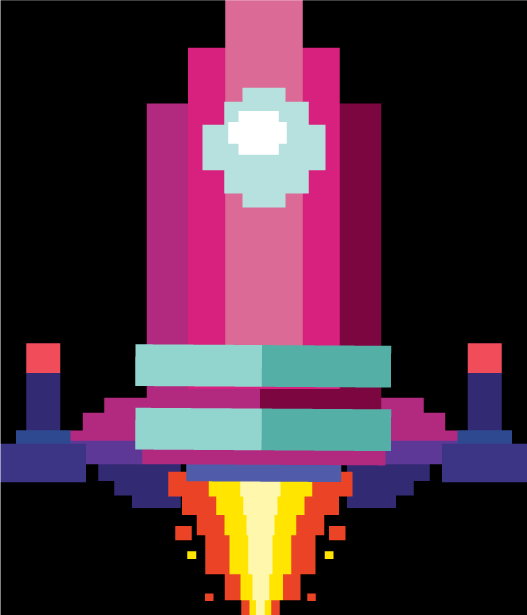
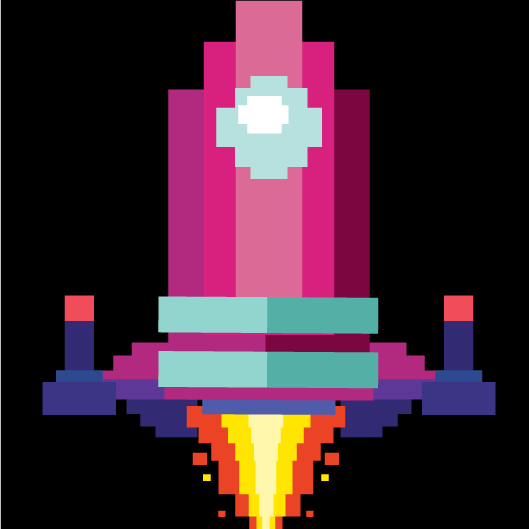
cambie paleta. audio como iconos pixelart. y +

diff --git a/css/index.css b/css/index.css
@@ -1,3 +1,10 @@
+/* HEX
+--white: #FFFFFFff;
+--tiffany-blue: #93D4CEff;
+--midnight-blue: #342975ff;
+--mexican-pink: #D8217Eff;
+--canary: #FFE500ff; */
+
 @import url('https://fonts.googleapis.com/css2?family=Press+Start+2P&display=swap');
 
 body {
@@ -15,7 +22,7 @@ body {
 }
 
 #container {
-  height: 700px;
+  height: 670px;
   width: 900px;
   position: relative;
   background-color: transparent;
@@ -44,7 +51,7 @@ body {
 
   font-family: 'Press Start 2P', cursive;
   font-size: 20px;
-  color: #faf21b;
+  color: #FFE500ff;
 }
 
 #invader-info p {
@@ -56,14 +63,14 @@ body {
 #splash-instruction {
   position: absolute;
   line-height: 1cm;
-  bottom: 120px;
-  left: 215px;
-  width: 500px;
+  bottom: 145px;
+  left: 210px;
+  width: 550px;
   height: 40px;
 
   text-align: center;
   font-family: 'Press Start 2P', cursive;
-  font-size: 20px;
+  font-size: 18px;
   color: #fff;
   letter-spacing: 2px;
 }
@@ -110,13 +117,13 @@ body {
 
 #menu-button:hover {
   cursor: pointer;
-  color: #faf21b;
+  color: #FFE500ff;
 }
 
 #menu-container {
   position: absolute;
   bottom: 100px;
-  left: 300px;
+  left: 310px;
 
   display: flex;
   flex-direction: column;
@@ -125,19 +132,20 @@ body {
 
   background: rgb(2,0,36);
   background: linear-gradient(90deg, rgba(2,0,36,1) 0%, rgba(5,5,91,1) 85%, rgba(9,9,121,1) 100%);
-  height: 400px;
+  height: 405px;
   width: 300px;
 
   font-family: 'Press Start 2P', cursive;
   font-size: 20px;
-  color: #56bdec;
+  color: #DB6A96ff;
 
   border-radius: 10px;
 }
 
 .header {
-  color: #faf21b;
+  color: #FFE500ff;
   text-align: center;
+  font-size: 35px;
 }
 
 .button:hover {
@@ -146,7 +154,7 @@ body {
 
 #about-button:hover {
   cursor: pointer;
-  color: #faf21b;
+  color: #FFE500ff;
 }
 
 #about {
@@ -154,23 +162,23 @@ body {
 
   position: absolute;
   bottom: 100px;
-  left: 300px;
+  left: 295px;
 
-  background-color: grey;
-  height: 400px;
+  background: linear-gradient(90deg, rgba(2,0,36,1) 0%, rgba(5,5,91,1) 85%, rgba(9,9,121,1) 100%);
+  height: 405px;
   width: 300px;
 
-  font-family: 'Bungee Inline', cursive;
+  font-family: 'Press Start 2P', cursive;
   letter-spacing: 1px;
   line-height: 25px;
-  color: #000;
+  color: #fff;
 
   text-align: center;
   border-radius: 10px;
 }
 
 #port-link {
-  color: #faf21b;
+  color: #FFE500ff;
   text-decoration: none;
   transition: color .15s ease-in;
 }
@@ -181,19 +189,19 @@ body {
 }
 
 #close-about {
-  margin-left: 200px;
+  margin-left: 150px;
   margin-top: 5px;
   color: #fff;
 }
 
 #close-about:hover {
   cursor: pointer;
-  color: #faf21b;
+  color: #FFE500ff;
 }
 
 #instructions-button:hover {
   cursor: pointer;
-  color: #faf21b;
+  color: #FFE500ff;
 }
 
 #instructions {
@@ -201,53 +209,54 @@ body {
 
   position: absolute;
   bottom: 100px;
-  left: 300px;
+  left: 295px;
 
-  background-color: grey;
-  height: 400px;
-  width: 300px;
+  background: linear-gradient(90deg, rgba(2,0,36,1) 0%, rgba(5,5,91,1) 85%, rgba(9,9,121,1) 100%);
+  height: 405px;
+  width: 305px;
 
-  font-family: 'Bungee Inline', cursive;
+  font-family: 'Press Start 2P', cursive;
+  font-size: 14px;
   letter-spacing: 1px;
   line-height: 25px;
-  color: #000;
+  color: #fff;
 
   text-align: center;
   border-radius: 10px;
 }
 
 #close-instructions {
-  margin-left: 200px;
+  margin-left: 150px;
   margin-top: 5px;
   color: #fff;
 }
 
 #close-instructions:hover {
   cursor: pointer;
-  color: #faf21b;
+  color: #FFE500ff;
 }
 
 #close-instructions:hover {
   cursor: pointer;
-  color: #faf21b;
+  color: #FFE500ff;
 }
 
 #resume-button:hover {
   cursor: pointer;
-  color: #faf21b;
+  color: #FFE500ff;
 }
 
 #restart-button:hover {
   cursor: pointer;
-  color: #faf21b;
+  color: #FFE500ff;
 }
 
 #main-logo {
   position: absolute;
-  top: 10px;
-  left: 215px;
+  top: 40px;
+  left: 220px;
 
-  height: 210px;
+  height: 200px;
   width: 500px;
 }
 
@@ -288,7 +297,7 @@ body {
 
 #play-game {
   position: absolute;
-  bottom: -150px;
+  bottom: 0px;
   left: 307px;
 
   z-index: 5;
@@ -309,7 +318,9 @@ body {
 #play-game:hover {
   cursor: pointer;
   transition: all .3s ease-in;
-  background: #37ed1f;
+  background: #93D4CEff;
+  border: 2px solid #93D4CEff;
+  color: #000;
 }
 
 #play-game p {

diff --git a/index.html b/index.html
@@ -82,12 +82,12 @@
 
       <img
         id="audio"
-        src="./images/audio.jpg" />
+        src="./images/audio.png" />
 
       <img
         class='hide'
         id='mute'
-        src='./images/mute.jpg' />
+        src='./images/mute.png' />
 
       <img
         class='hide'
@@ -96,7 +96,7 @@
 
       <img
         id="main-logo"
-        src="./images/main-logo.jpg" />
+        src="./images/si.png" />
 
       <!-- <img
         id="play-game"
@@ -105,12 +105,13 @@
       <img
         class="hide"
         id="defender"
-        src="./images/defender.jpg" />
+        src="./images/defender.png" 
+        style="height: 1000px; width: 1000px;"/>
 
       <img
         class='hide'
         id='defender-death'
-        src='./images/defender-death.jpg' />
+        src='./images/defender-death.png' />
 
       <img
         class=""

diff --git a/bundle.js b/bundle.js
@@ -320,7 +320,7 @@
 	GameView.prototype.addLivesText = function(ctx) {
 	  let x = this.game.DIM_X * .87, y = this.game.DIM_Y * .05;
 	
-	  ctx.font = "23px Bungee Inline";
+	  ctx.font = "23px Bungee Inline"; //Preguntar cómo cambiar la font desde acá a la Press Start 2P (20px)
 	  ctx.fillText(`VIDAS: ${this.game.defenderLives}`, x, y);
 	};
 	
